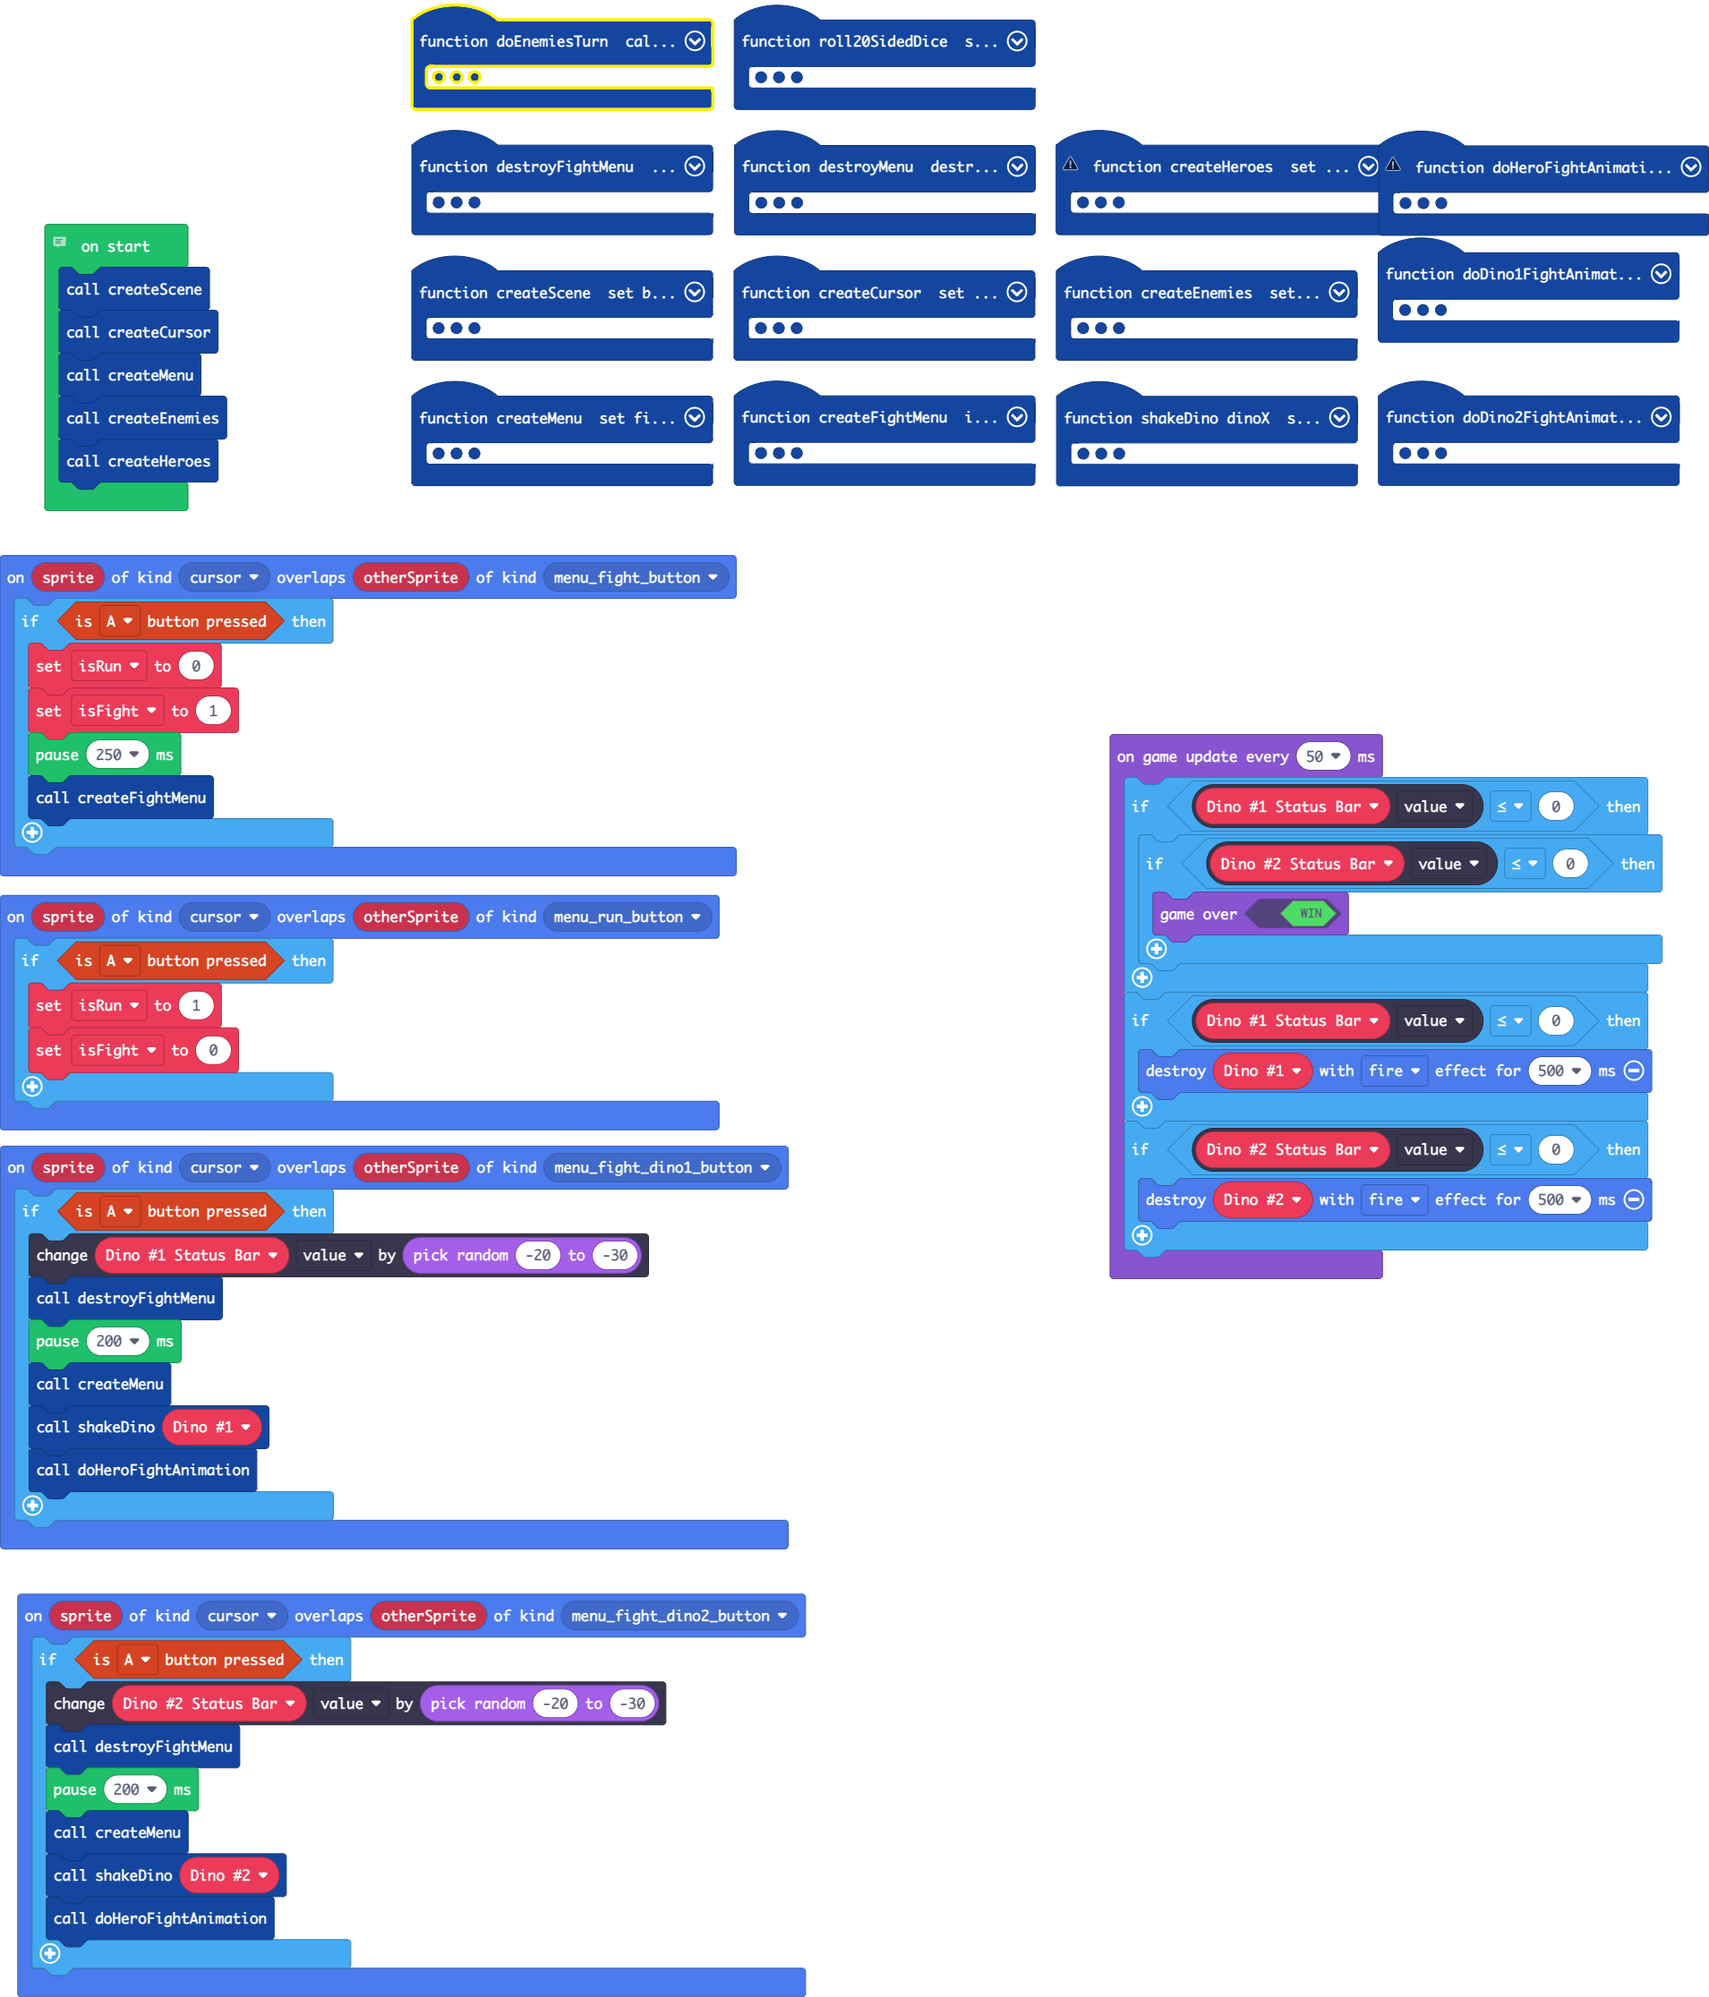
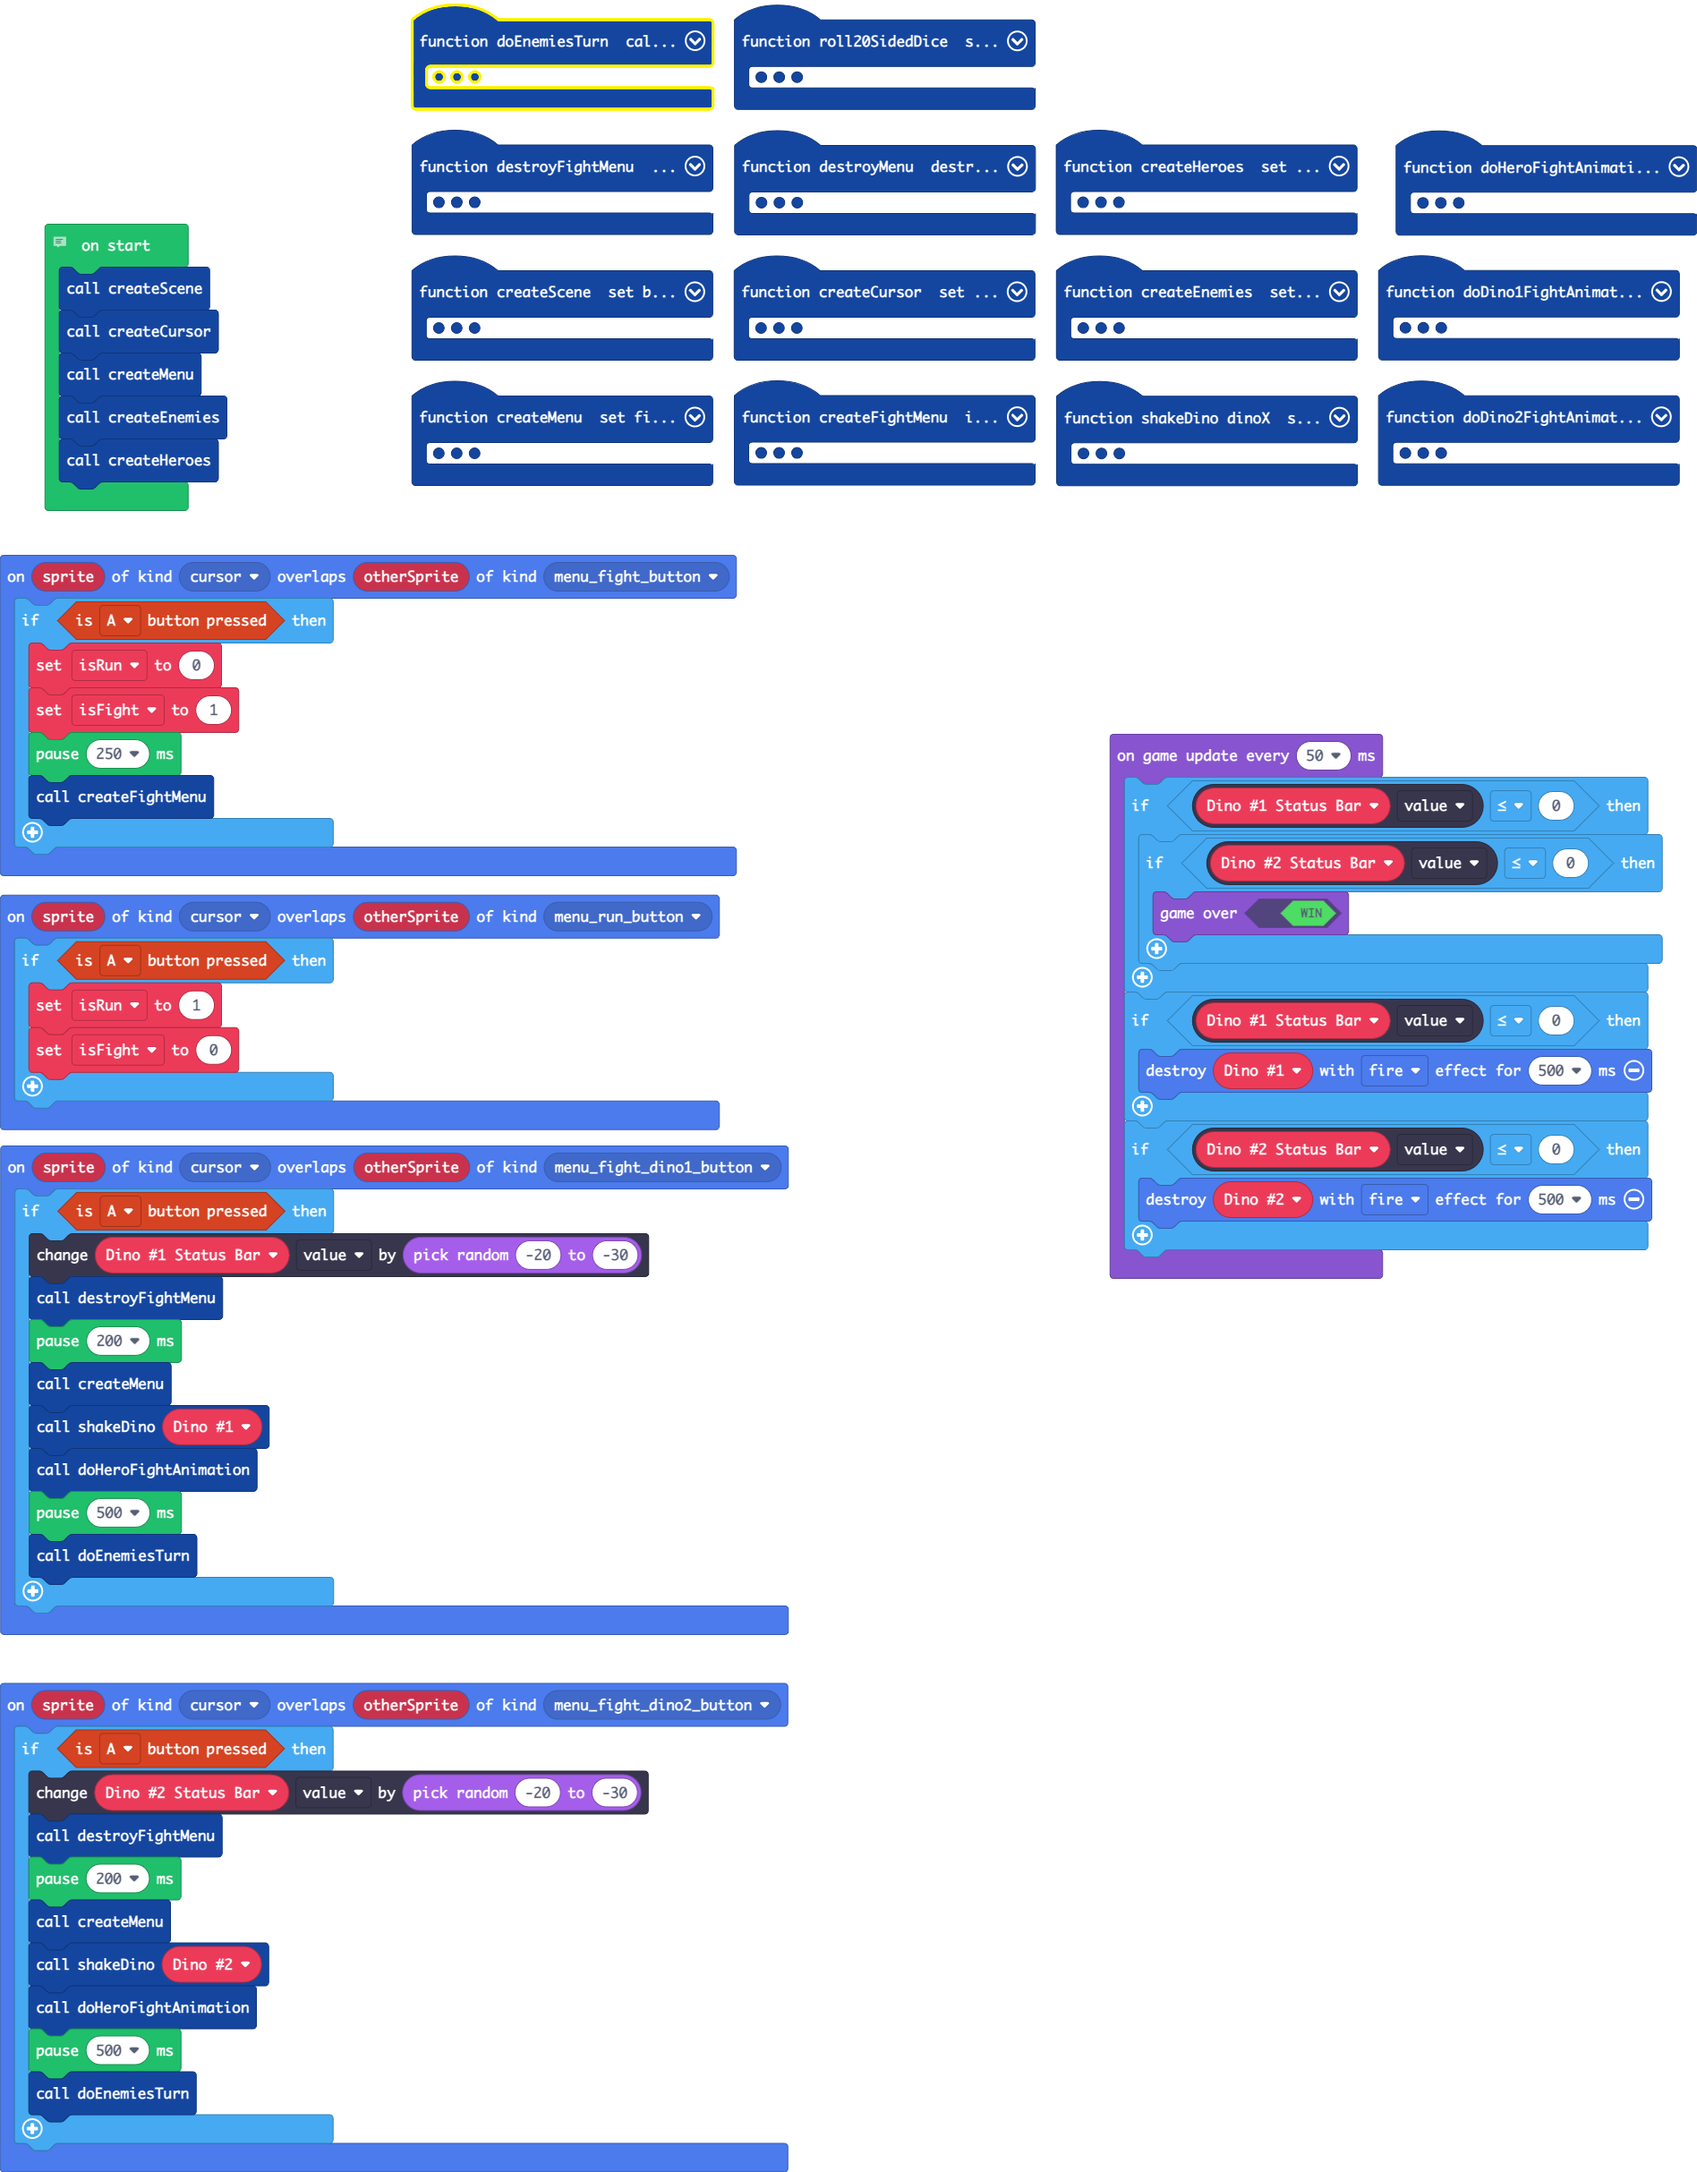
enemies turn (work in progress)

diff --git a/main.ts b/main.ts
@@ -10,10 +10,14 @@ function doEnemiesTurn () {
     roll20SidedDice()
     if (twentySidedDice > 2) {
         doDino1FightAnimation()
+        pause(500)
+        scene.cameraShake(4, 500)
     }
     roll20SidedDice()
     if (twentySidedDice > 2) {
         doDino2FightAnimation()
+        pause(500)
+        scene.cameraShake(4, 500)
     }
 }
 function destroyFightMenu () {
@@ -27,7 +31,7 @@ function destroyFightMenu () {
     sprites.destroy(Dino_2_Button)
 }
 function createHeroes () {
-    twentySidedDice = sprites.create(img`
+    heros = sprites.create(img`
         ...............ff.......
         .............ff2ffff....
         ............ff2feeeeff..
@@ -45,7 +49,7 @@ function createHeroes () {
         ..........c...ffffffff..
         ...............ff..fff..
         `, SpriteKind.Hero)
-    tiles.placeOnTile(twentySidedDice, tiles.getTileLocation(8, 1))
+    tiles.placeOnTile(heros, tiles.getTileLocation(8, 1))
 }
 sprites.onOverlap(SpriteKind.cursor, SpriteKind.menu_fight_dino1_button, function (sprite, otherSprite) {
     if (controller.A.isPressed()) {
@@ -55,11 +59,13 @@ sprites.onOverlap(SpriteKind.cursor, SpriteKind.menu_fight_dino1_button, functio
         createMenu()
         shakeDino(Dino_1)
         doHeroFightAnimation()
+        pause(500)
+        doEnemiesTurn()
     }
 })
 function doHeroFightAnimation () {
     animation.runImageAnimation(
-    twentySidedDice,
+    heros,
     [img`
         ..............ffffff....
         .............f2feeeeff..
@@ -165,7 +171,7 @@ function doHeroFightAnimation () {
     true
     )
     pause(500)
-    animation.stopAnimation(animation.AnimationTypes.All, twentySidedDice)
+    animation.stopAnimation(animation.AnimationTypes.All, heros)
 }
 function doDino2FightAnimation () {
     animation.runImageAnimation(
@@ -320,8 +326,33 @@ function doDino2FightAnimation () {
         ...ccbbbcbddddccdddc....
         .....ccccdd555dccccc....
         ........cccccccc........
+        `,img`
+        ........................
+        ........................
+        ...........ccc..........
+        ...........cccc.........
+        .......ccc..ccccccc.....
+        .......cccccc555555cc...
+        ........ccb5555555555c..
+        .....cc..b555555555555c.
+        .....cccb555555ff155555c
+        ......cb55555555ff55d55c
+        ......b5555555555555555c
+        ...cc.b555dd5555bb13bbc.
+        ...cccd55ddddd555b3335c.
+        .....bdddddddddd55b335c.
+        ..cccdddddb55bbddd5555c.
+        ..cccdddddb555bbbbcccc..
+        ...ccddddddb5555cbcdc...
+        ccccbdddddd5cb55cbcc....
+        cddddddddd5555ccbbc.....
+        .cddddddbdd555bbbcc.....
+        ..ccdddbbbdd55cbcdc.....
+        ....ccbbcbddddccdddcc...
+        ......cccdd555dcccccc...
+        ........cccccccc........
         `],
-    500,
+    100,
     false
     )
 }
@@ -423,6 +454,8 @@ sprites.onOverlap(SpriteKind.cursor, SpriteKind.menu_fight_dino2_button, functio
         createMenu()
         shakeDino(Dino_2)
         doHeroFightAnimation()
+        pause(500)
+        doEnemiesTurn()
     }
 })
 function createCursor () {
@@ -606,8 +639,33 @@ function doDino1FightAnimation () {
         ...ccbbbcbddddccdddc....
         .....ccccdd555dccccc....
         ........cccccccc........
+        `,img`
+        ........................
+        ........................
+        ...........ccc..........
+        ...........cccc.........
+        .......ccc..ccccccc.....
+        .......cccccc555555cc...
+        ........ccb5555555555c..
+        .....cc..b555555555555c.
+        .....cccb555555ff155555c
+        ......cb55555555ff55d55c
+        ......b5555555555555555c
+        ...cc.b555dd5555bb13bbc.
+        ...cccd55ddddd555b3335c.
+        .....bdddddddddd55b335c.
+        ..cccdddddb55bbddd5555c.
+        ..cccdddddb555bbbbcccc..
+        ...ccddddddb5555cbcdc...
+        ccccbdddddd5cb55cbcc....
+        cddddddddd5555ccbbc.....
+        .cddddddbdd555bbbcc.....
+        ..ccdddbbbdd55cbcdc.....
+        ....ccbbcbddddccdddcc...
+        ......cccdd555dcccccc...
+        ........cccccccc........
         `],
-    500,
+    100,
     false
     )
 }
@@ -804,6 +862,7 @@ let isFight = 0
 let isRun = 0
 let Dino_2: Sprite = null
 let Dino_1: Sprite = null
+let heros: Sprite = null
 let Dino_2_Button: Sprite = null
 let Dino_2_Status_Bar: StatusBarSprite = null
 let Dino_1_Button: Sprite = null
